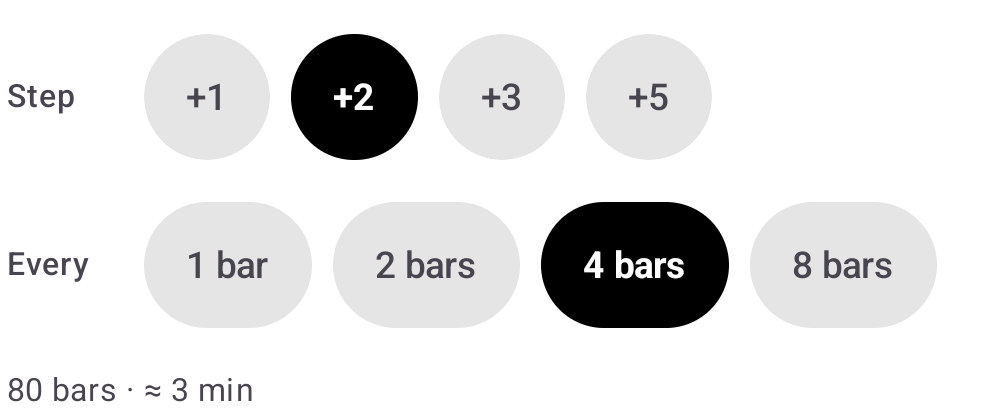
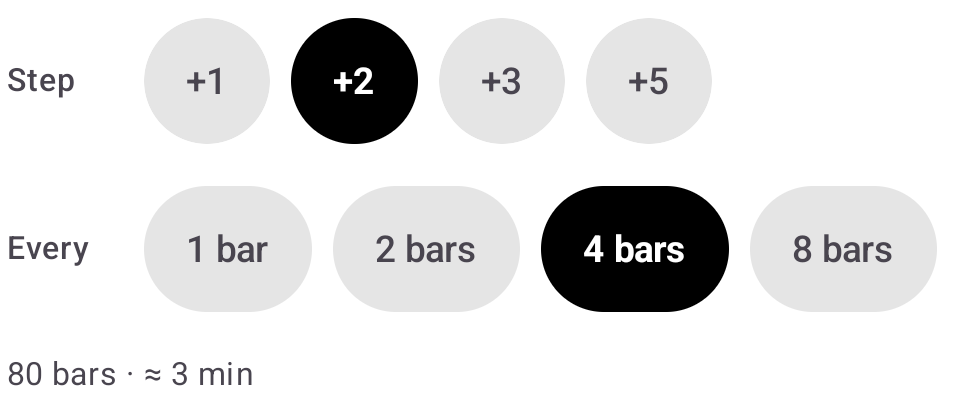
fix(site): unstretch the hero device and make the crops read as evidence
The hero screenshot was squashed 13.6% (natural ratio 0.450, rendered
0.512). A max-height plus width:auto on the image fought the declared
aspect-ratio; the frame's max-width and the ratio are now the only two
things sizing it, and every image measures 0% skew at 390, 768 and 1440.

The ledger's mask was applied to the .field element itself, so it masked
the element's text as well as its ruling and faded the first line of
every paragraph. The ruling moves to its own ::before layer.

The proof images carried no intrinsic dimensions, so their boxes were not
reserved and each card rendered as empty white until the lazy image
arrived. Added width and height, then trimmed each crop to its own
content: the settings crop was also recut by hand, since the automatic
trim left a dangling "Practice" heading and clipped the theme row the
caption promises.

Verified at three widths: no horizontal overflow, no stretched image, no
touch target under 44px, no unloaded image, no console errors.

diff --git a/docs/index.html b/docs/index.html
@@ -215,7 +215,11 @@
         /* Field ruling. Only on blocks whose line-height is exactly one band —
            anywhere else the rules cross letterforms mid-stem and the two
            patterns resolve as moire, which is what "too many stripes" was. */
-        .field {
+        /* The ruling lives on its own layer. Masking the element itself also
+           masked its text, which faded the first line of every paragraph. */
+        .field { position: relative; }
+        .field::before {
+            content: ''; position: absolute; inset: 0; pointer-events: none;
             background-image: repeating-linear-gradient(to bottom,
                 transparent 0,
                 transparent calc(var(--rule-y) - var(--rule-w)),
@@ -272,10 +276,10 @@
            as the whole page's ground: the journal reads as a move, not as
            wallpaper. */
 
-        /* Cap the image's height, not the frame's: capping the frame with
-           overflow:hidden guillotined the transport bar mid-control. */
-        .screen--hero img { max-height: min(58vh, 520px); width: auto; margin: 0 auto; }
-        .screen--hero { display: flex; justify-content: center; }
+        /* One sizing mechanism only: the frame's max-width sets the width and
+           the declared aspect-ratio sets the height. Adding a max-height here
+           fought the ratio and squashed the device by 13.6%. */
+        .screen--hero { margin-inline: auto; }
         /* ---------- entry with a screen ---------- */
         .split { display: grid; gap: clamp(28px, 5vw, 72px); align-items: center; }
         @media (min-width: 880px) {
@@ -343,9 +347,9 @@
             margin-top: var(--lh);
             background: var(--paper);
             border-radius: var(--radius, 16px);
-            padding: clamp(14px, 2.4vw, 26px);
+            padding: clamp(10px, 1.4vw, 16px);
             box-shadow: 0 1px 2px rgba(20,24,20,.05), 0 14px 34px -22px rgba(20,24,20,.28);
-            max-width: 720px;
+            max-width: 640px;
             line-height: 0;
         }
         .proof img { width: 100%; height: auto; display: block; }
@@ -450,7 +454,7 @@ FINISH: unreviewed and undocumented is unfinished; this build ends with the fini
                 </ul>
             </div>
             <figure class="proof">
-                <img src="screenshots/detail-main.png" loading="lazy" alt="The metronome screen at 100 BPM in 4/4, marked Andante, with beat dots, tempo slider and the play, timer and tap tempo controls.">
+                <img src="screenshots/detail-main.png" width="960" height="846" loading="lazy" alt="The metronome screen at 100 BPM in 4/4, marked Andante, with beat dots, tempo slider and the play, timer and tap tempo controls.">
                 <figcaption>The tempo cluster: marking, BPM, fine steps and the slider.</figcaption>
             </figure>
         </div>
@@ -464,7 +468,7 @@ FINISH: unreviewed and undocumented is unfinished; this build ends with the fini
                 <p class="say field">The Gap Trainer plays a set number of bars, then goes quiet for a set number while the beat keeps counting underneath. You hold the pulse yourself, and find out whether you are still with the click when it comes back. It is the most direct way to train an internal clock.</p>
             </div>
             <figure class="proof">
-                <img src="screenshots/detail-gap.png" loading="lazy" alt="The Gap Trainer running, with a status strip reading Muted, bar 2 of 2, over a 4 plus 2 bar cycle.">
+                <img src="screenshots/detail-gap.png" width="1000" height="101" loading="lazy" alt="The Gap Trainer running, with a status strip reading Muted, bar 2 of 2, over a 4 plus 2 bar cycle.">
                 <figcaption>The status strip while the Gap Trainer is muted: bar 2 of 2 of a 4 plus 2 bar cycle.</figcaption>
             </figure>
         </div>
@@ -483,7 +487,7 @@ FINISH: unreviewed and undocumented is unfinished; this build ends with the fini
                 </ul>
             </div>
             <figure class="proof">
-                <img src="screenshots/detail-tempo.png" loading="lazy" alt="The Tempo Trainer sheet set to climb from 80 to 120 BPM in steps of 2 every 4 bars, totalling 80 bars or about 3 minutes.">
+                <img src="screenshots/detail-tempo.png" width="955" height="404" loading="lazy" alt="The Tempo Trainer sheet set to climb from 80 to 120 BPM in steps of 2 every 4 bars, totalling 80 bars or about 3 minutes.">
                 <figcaption>A climb configured to step +2 every 4 bars — 80 bars, about 3 minutes.</figcaption>
             </figure>
         </div>
@@ -497,7 +501,7 @@ FINISH: unreviewed and undocumented is unfinished; this build ends with the fini
                 <p class="say field">Save a whole setup as a preset — tempo, meter, subdivision, accents and count-in — then order those presets into a practice set, each step with a time or bar goal. You decide when to move on; nothing advances behind your back.</p>
             </div>
             <figure class="proof">
-                <img src="screenshots/detail-session.png" loading="lazy" alt="A practice session in progress showing step 2 of 3, Scales at 100 BPM in 4/4, three of five minutes done, with Etude up next.">
+                <img src="screenshots/detail-session.png" width="1000" height="403" loading="lazy" alt="A practice session in progress showing step 2 of 3, Scales at 100 BPM in 4/4, three of five minutes done, with Etude up next.">
                 <figcaption>Step 2 of 3 of a saved practice set, three of five minutes done.</figcaption>
             </figure>
         </div>
@@ -517,7 +521,7 @@ FINISH: unreviewed and undocumented is unfinished; this build ends with the fini
                 </ul>
             </div>
             <figure class="proof">
-                <img src="screenshots/detail-settings.png" loading="lazy" alt="The settings screen with click sound, volume, stereo panning, haptic feedback, theme and colour scheme options.">
+                <img src="screenshots/detail-settings.png" width="1000" height="560" loading="lazy" alt="The settings screen with click sound, volume, stereo panning, haptic feedback, theme and colour scheme options.">
                 <figcaption>Theme and colour scheme, both stored on your device.</figcaption>
             </figure>
         </div>
